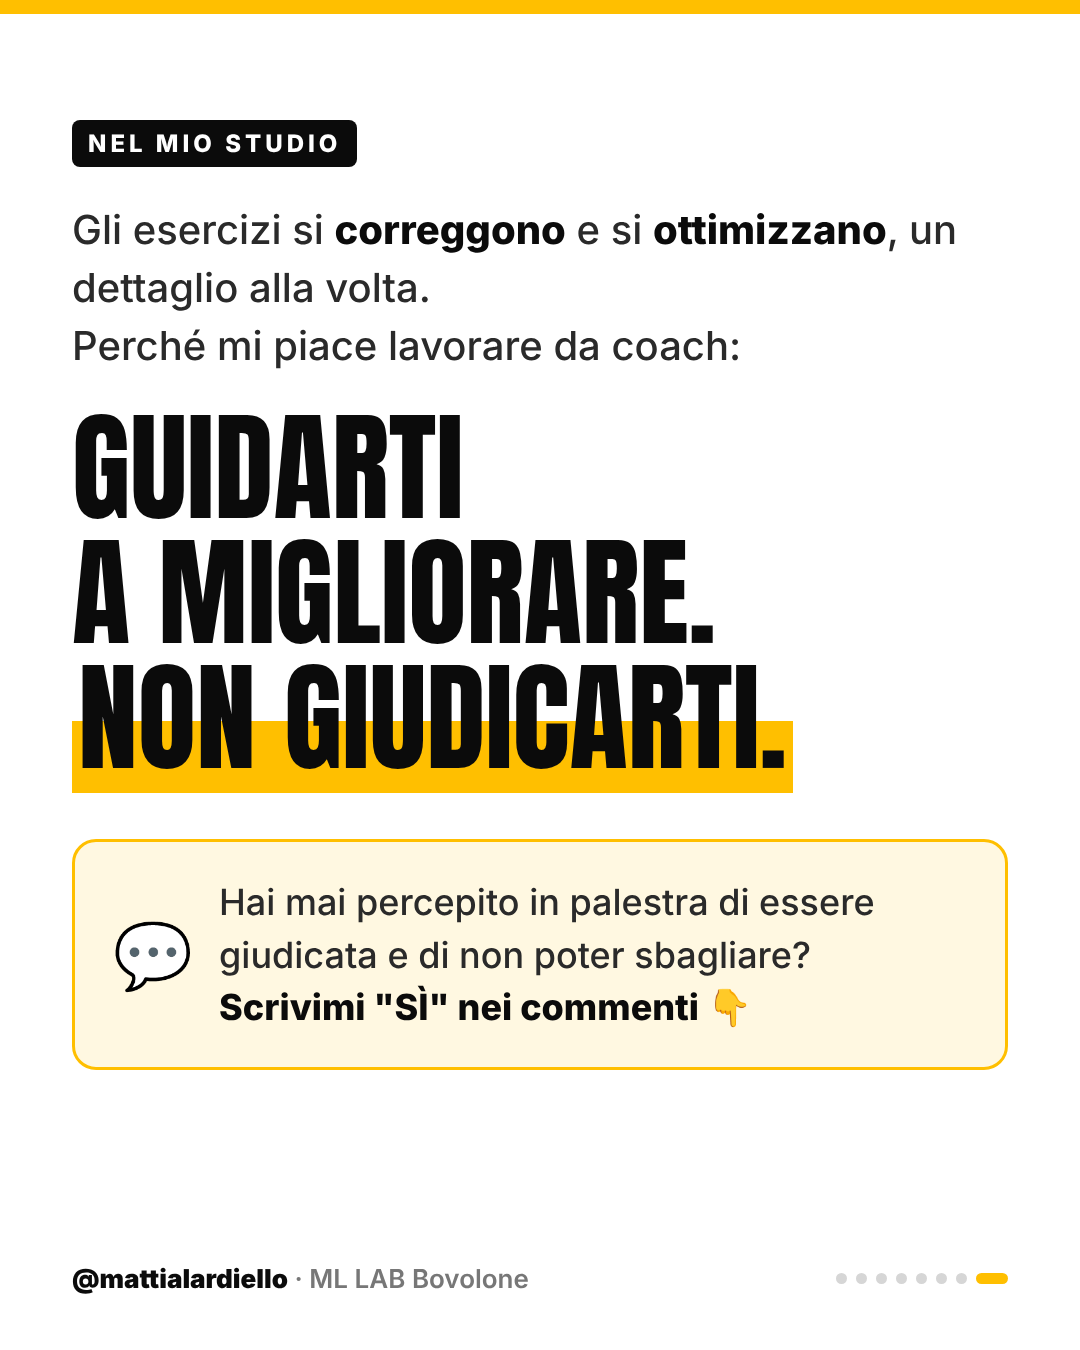
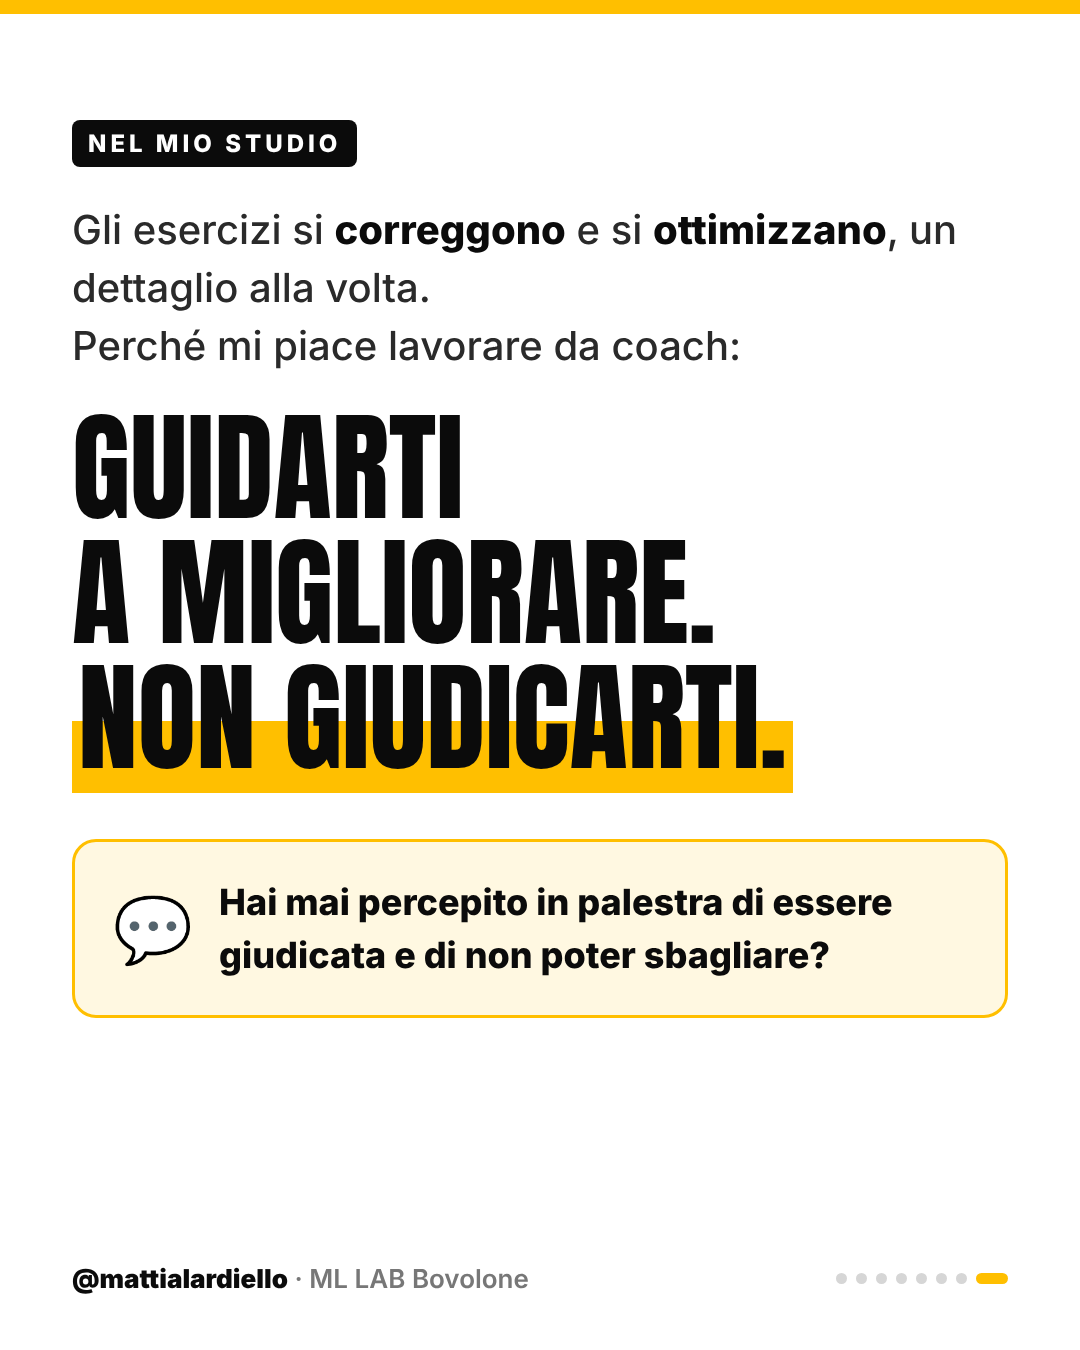
Ho sbagliato: domanda in terza persona, CTA senza commento
Claude-Session: https://claude.ai/code/session_014pNAwoV69TZpDWEUzr7pF6

Changed region(s): [[0.0611, 0.6533, 0.9472, 0.8089]]

diff --git a/contenuti-instagram/README.md b/contenuti-instagram/README.md
@@ -225,7 +225,7 @@ Ricorda: consenso scritto della cliente prima di pubblicare.
 >
 > Nel mio studio vale lo stesso: gli esercizi si correggono e si ottimizzano, un dettaglio alla volta. Mi piace lavorare da coach: guidarti a migliorare, non giudicarti.
 >
-> Hai mai percepito in palestra di essere giudicata e di non poter sbagliare? Scrivimi "SÌ" nei commenti 👇
+> Hai mai percepito in palestra di essere giudicata e di non poter sbagliare?
 > 📍 ML LAB – Bovolone
 >
 > #allenamentofemminile #personaltrainer #tecnicaesercizi #iniziareadallenarsi #ansiadaprestazione #coaching #allenatoreportieri #personaltrainerverona #personaltrainerbovolone #mllab
